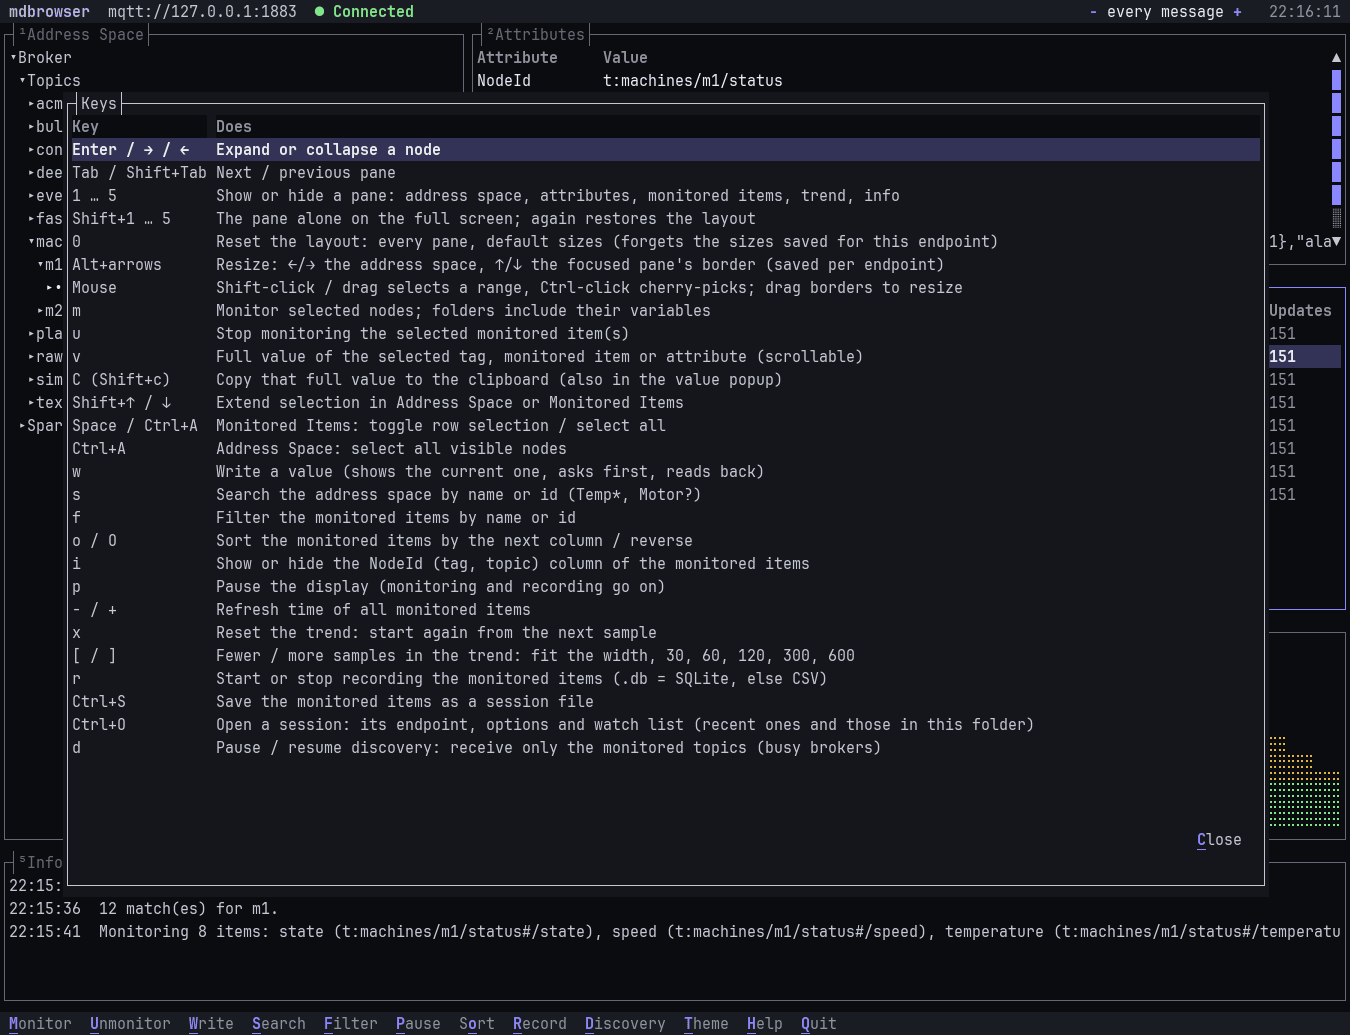
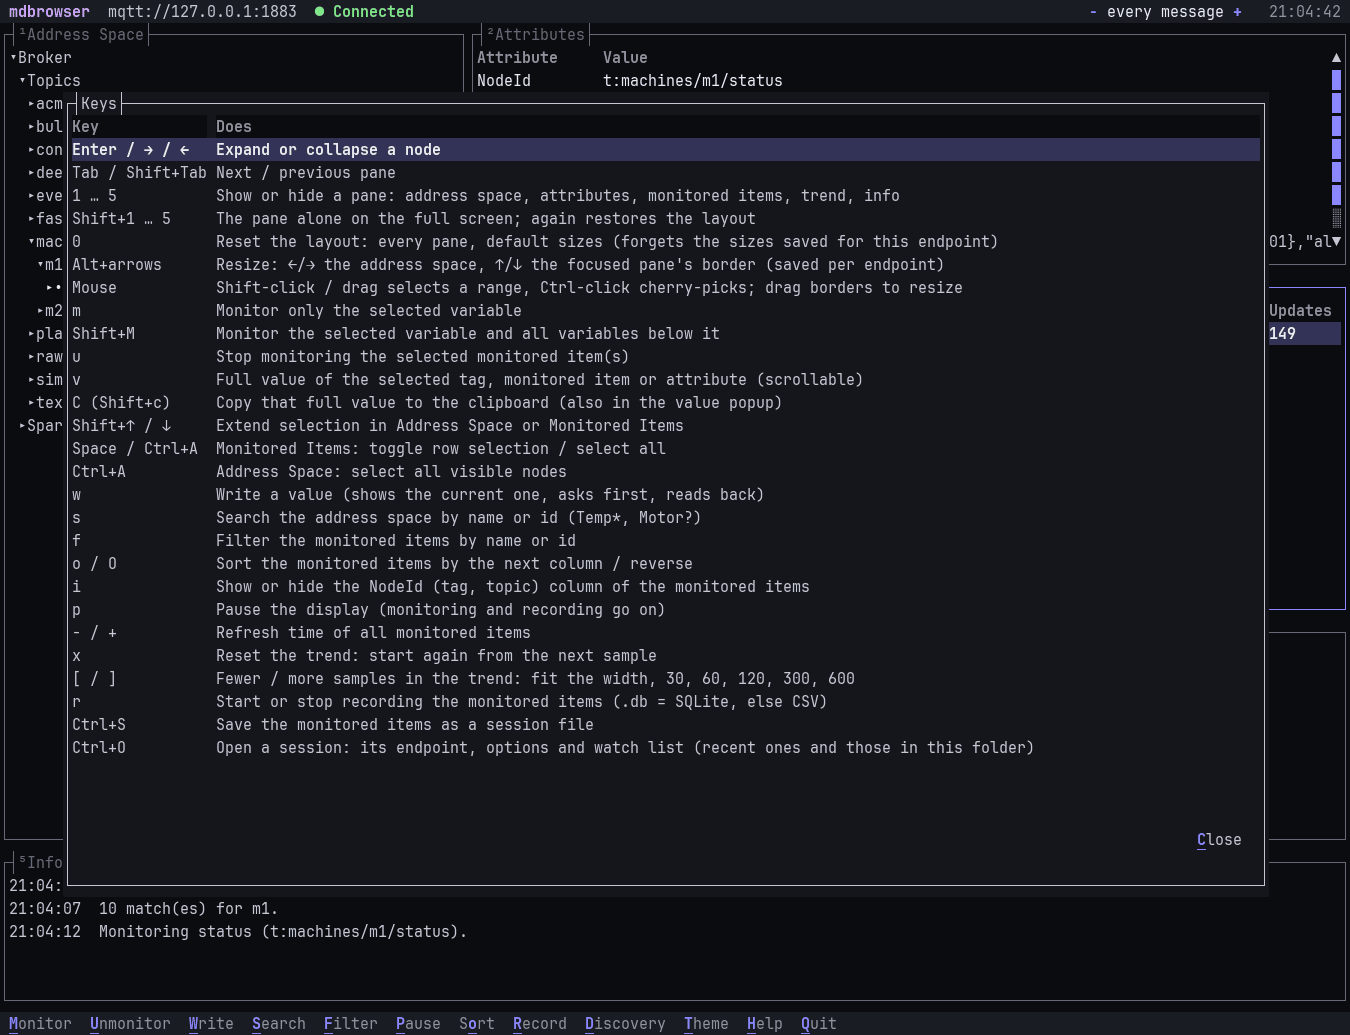
fix(cli): make TUI monitoring scope explicit (#228)
* fix(cli): make TUI monitoring scope explicit

Separate single-node monitoring from recursive expansion so operators can
monitor a selected value without subscribing to every discovered field.

Confidence: high
Scope-risk: narrow
Not-tested: Full solution build and test suite

* docs(cli): refresh TUI shortcut help screenshot

Replace only the help screenshot so the key list reflects the new Shift+M monitoring shortcut.

Constraint: Keep unrelated TUI screenshots unchanged
Confidence: high
Scope-risk: narrow

diff --git a/src/MachineDataBrowser.Cli/Tui/TuiApp.cs b/src/MachineDataBrowser.Cli/Tui/TuiApp.cs
@@ -322,7 +322,7 @@ internal sealed class TuiApp : IDisposable
         _extraKeys.Clear();
         foreach (var (key, action) in new (Key, Action)[]
         {
-            (Key.M, Monitor), (Key.U, Unmonitor),
+            (Key.M, Monitor), (Key.M.WithShift, MonitorRecursive), (Key.U, Unmonitor),
             (Key.S, Search), (Key.F, Filter), (Key.P, TogglePause),
             (Key.V, ShowValue), (Key.C.WithShift, CopyValue),
             (Key.O, NextSort), (Key.R, ToggleRecording), (Key.H, Help), (Key.T, NextTheme), (Key.L, ToggleLight),
@@ -597,7 +597,11 @@ internal sealed class TuiApp : IDisposable
         }
     }
 
-    private void Monitor()
+    private void Monitor() => Monitor(recursive: false);
+
+    private void MonitorRecursive() => Monitor(recursive: true);
+
+    private void Monitor(bool recursive)
     {
         var entries = SelectedEntries;
         if (entries.Count == 0)
@@ -607,9 +611,11 @@ internal sealed class TuiApp : IDisposable
 
         Run(async () =>
         {
-            await _model.MonitorAsync(entries).ConfigureAwait(false);
+            await _model.MonitorAsync(entries, recursive).ConfigureAwait(false);
             Ui(() => RefreshWatch());
-        }, entries.Count == 1 ? $"monitoring {entries[0].Item.DisplayName}" : $"monitoring {entries.Count} selected address-space items");
+        }, entries.Count == 1
+            ? $"monitoring {entries[0].Item.DisplayName}"
+            : $"monitoring {entries.Count} selected address-space items");
     }
 
     private void Unmonitor()
@@ -2221,7 +2227,8 @@ internal sealed class TuiApp : IDisposable
             ["0", "Reset the layout: every pane, default sizes (forgets the sizes saved for this endpoint)"],
             ["Alt+arrows", "Resize: ←/→ the address space, ↑/↓ the focused pane's border (saved per endpoint)"],
             ["Mouse", "Shift-click / drag selects a range, Ctrl-click cherry-picks; drag borders to resize"],
-            ["m", "Monitor selected nodes; folders include their variables"],
+            ["m", "Monitor only the selected variable"],
+            ["Shift+M", "Monitor the selected variable and all variables below it"],
             ["u", "Stop monitoring the selected monitored item(s)"],
             ["v", "Full value of the selected tag, monitored item or attribute (scrollable)"],
             ["C (Shift+c)", "Copy that full value to the clipboard (also in the value popup)"],

diff --git a/src/MachineDataBrowser.Cli/Tui/BrowserModel.cs b/src/MachineDataBrowser.Cli/Tui/BrowserModel.cs
@@ -300,21 +300,37 @@ internal sealed class BrowserModel : IAsyncDisposable
 
     /// <summary>Monitors selected variables and expands selected folders to their variables.</summary>
     public async Task<int> MonitorAsync(IReadOnlyList<TreeEntry> entries, CancellationToken cancellationToken = default)
+        => await MonitorAsync(entries, recursive: true, cancellationToken).ConfigureAwait(false);
+
+    /// <summary>Monitors selected variables, optionally expanding folders and structured variables to descendants.</summary>
+    public async Task<int> MonitorAsync(IReadOnlyList<TreeEntry> entries, bool recursive, CancellationToken cancellationToken = default)
     {
         List<Node> nodes = [];
         var descendIntoVariables = Client is IDynamicAddressSpace;
         foreach (var entry in entries)
         {
-            if (entry.IsVariable && !(descendIntoVariables && entry.Item.HasChildren))
+            if (!recursive)
+            {
+                if (entry.IsVariable)
+                {
+                    nodes.Add(ToNode(entry));
+                }
+            }
+            else if (entry.IsVariable && !(descendIntoVariables && entry.Item.HasChildren))
             {
                 nodes.Add(ToNode(entry));
             }
             else
             {
+                if (entry.IsVariable)
+                {
+                    // Recursive monitoring includes the selected JSON topic as well as its expanded fields.
+                    nodes.Add(ToNode(entry));
+                }
+
                 var found = await Client.CollectVariablesWithPathsAsync(entry.Item.NodeId, 10, MaxFolderItems, descendIntoVariables, cancellationToken).ConfigureAwait(false);
                 if (found.Count == 0 && entry.IsVariable)
                 {
-                    nodes.Add(ToNode(entry));
                     continue;
                 }
 
@@ -334,7 +350,9 @@ internal sealed class BrowserModel : IAsyncDisposable
 
         if (nodes.Count == 0)
         {
-            Log(entries.Count == 1 ? $"No variables below {entries[0].Item.DisplayName}." : $"No variables below the selected items.");
+            Log(!recursive
+                ? "Select a variable to monitor; Shift+M monitors variables below folders."
+                : entries.Count == 1 ? $"No variables below {entries[0].Item.DisplayName}." : "No variables below the selected items.");
             return 0;
         }
 

diff --git a/tests/MachineDataBrowser.Cli.Tests/TuiModelTests.cs b/tests/MachineDataBrowser.Cli.Tests/TuiModelTests.cs
@@ -187,21 +187,28 @@ public sealed class TuiModelTests(CustomTypesServerFixture custom, OpcPlcFixture
     }
 
     [Fact]
-    public async Task Mqtt_folder_monitors_the_json_fields_below_it()
+    public async Task Mqtt_monitoring_a_json_topic_includes_its_fields_only_when_recursive()
     {
         await using var model = await OpenAsync(broker.EndpointUrl, refreshMs: 0);
         await using var _ = model.Client;
         Assert.False(model.SupportsEvents);
         var m1 = await FindAsync(model, "m1");
-        Assert.True(await model.MonitorAsync(m1, Ct) >= 5);
-        Assert.Contains(model.Watch, r => r.Node.Name == "status/speed");
-        await Until(() => model.Watch.Any(r => r.Node.Name == "status/speed" && r.Snapshot().Updates > 0));
+        var status = (await model.LoadChildrenAsync(m1, cancellationToken: Ct)).Single(entry => entry.Item.DisplayName == "status");
+        Assert.True(status.IsVariable);
+        Assert.Equal(1, await model.MonitorAsync([status], recursive: false, cancellationToken: Ct));
+        Assert.Single(model.Watch);
+        await model.UnmonitorAsync(model.Watch[0]);
+
+        Assert.True(await model.MonitorAsync([status], recursive: true, cancellationToken: Ct) >= 6);
+        Assert.Contains(model.Watch, r => r.Node.Name == "status");
+        Assert.Contains(model.Watch, r => r.Node.Name == "speed" && r.Node.ParentPath?.EndsWith("/status", StringComparison.Ordinal) == true);
+        await Until(() => model.Watch.Any(r => r.Node.Name == "speed" && r.Snapshot().Updates > 0));
 
         // d in the TUI: discovery off and on again, like Pause discovery in the app; monitored topics keep coming.
         Assert.True(model.SupportsDiscoveryPause);
         await model.ToggleDiscoveryAsync(Ct);
         Assert.True(model.IsDiscoveryPaused);
-        var speed = model.Watch.Single(r => r.Node.Name == "status/speed");
+        var speed = model.Watch.Single(r => r.Node.Name == "speed" && r.Node.ParentPath?.EndsWith("/status", StringComparison.Ordinal) == true);
         var updates = speed.Snapshot().Updates;
         await Until(() => speed.Snapshot().Updates > updates);
         await model.ToggleDiscoveryAsync(Ct);

diff --git a/tests/MachineDataBrowser.Cli.Tests/TuiScreenTests.cs b/tests/MachineDataBrowser.Cli.Tests/TuiScreenTests.cs
@@ -289,8 +289,8 @@ public sealed class TuiScreenTests(CustomTypesServerFixture custom) : IAsyncLife
         _session.Tui.Reveal(hit.Path);
         await UntilScreen(s => s.Contains("Every10ms", StringComparison.Ordinal) && s.Contains("NodeId", StringComparison.Ordinal));
 
-        // m on a folder monitors the variables below it; values, status and the trend appear.
-        Press(Key.M);
+        // Shift+M on a folder monitors every variable below it; values, status and the trend appear.
+        Press(Key.M.WithShift);
         var screen = await UntilScreen(s => s.Contains("Counter", StringComparison.Ordinal)
             && s.Contains("Good", StringComparison.Ordinal)
             && s.Contains("⁴Trend ┤", StringComparison.Ordinal)

diff --git a/docs/cli.md b/docs/cli.md
@@ -244,7 +244,8 @@ Attributes, Monitored Items, Trend and Info show vertical scrollbars when their 
 | `1` … `5` / `Shift+1` … `5` | show or hide a pane / the pane alone on the full screen (again restores the layout) |
 | `0` | reset the layout: every pane shown, default sizes, the endpoint's saved layout forgotten |
 | `Alt+←` `→` / `Alt+↑` `↓` | resize the address space / move the focused pane's border (like dragging it) |
-| `m` / `u` | monitor selected address-space nodes (folders include variables) / stop monitoring selected rows |
+| `m` / `Shift+M` | monitor only the selected variable / monitor it and all variables below it, including nested fields |
+| `u` | stop monitoring selected rows |
 | `v` | the full value of the selected tag, monitored item or attribute in a scrollable popup |
 | `C` (`Shift+c`) | copy that full value to the clipboard, also inside the popup (`⌘C` stays the terminal's own copy) |
 | `Shift+↑` / `Shift+↓`, Shift-click or drag | extend tree/watch selection; `m` / `u` act on it |
